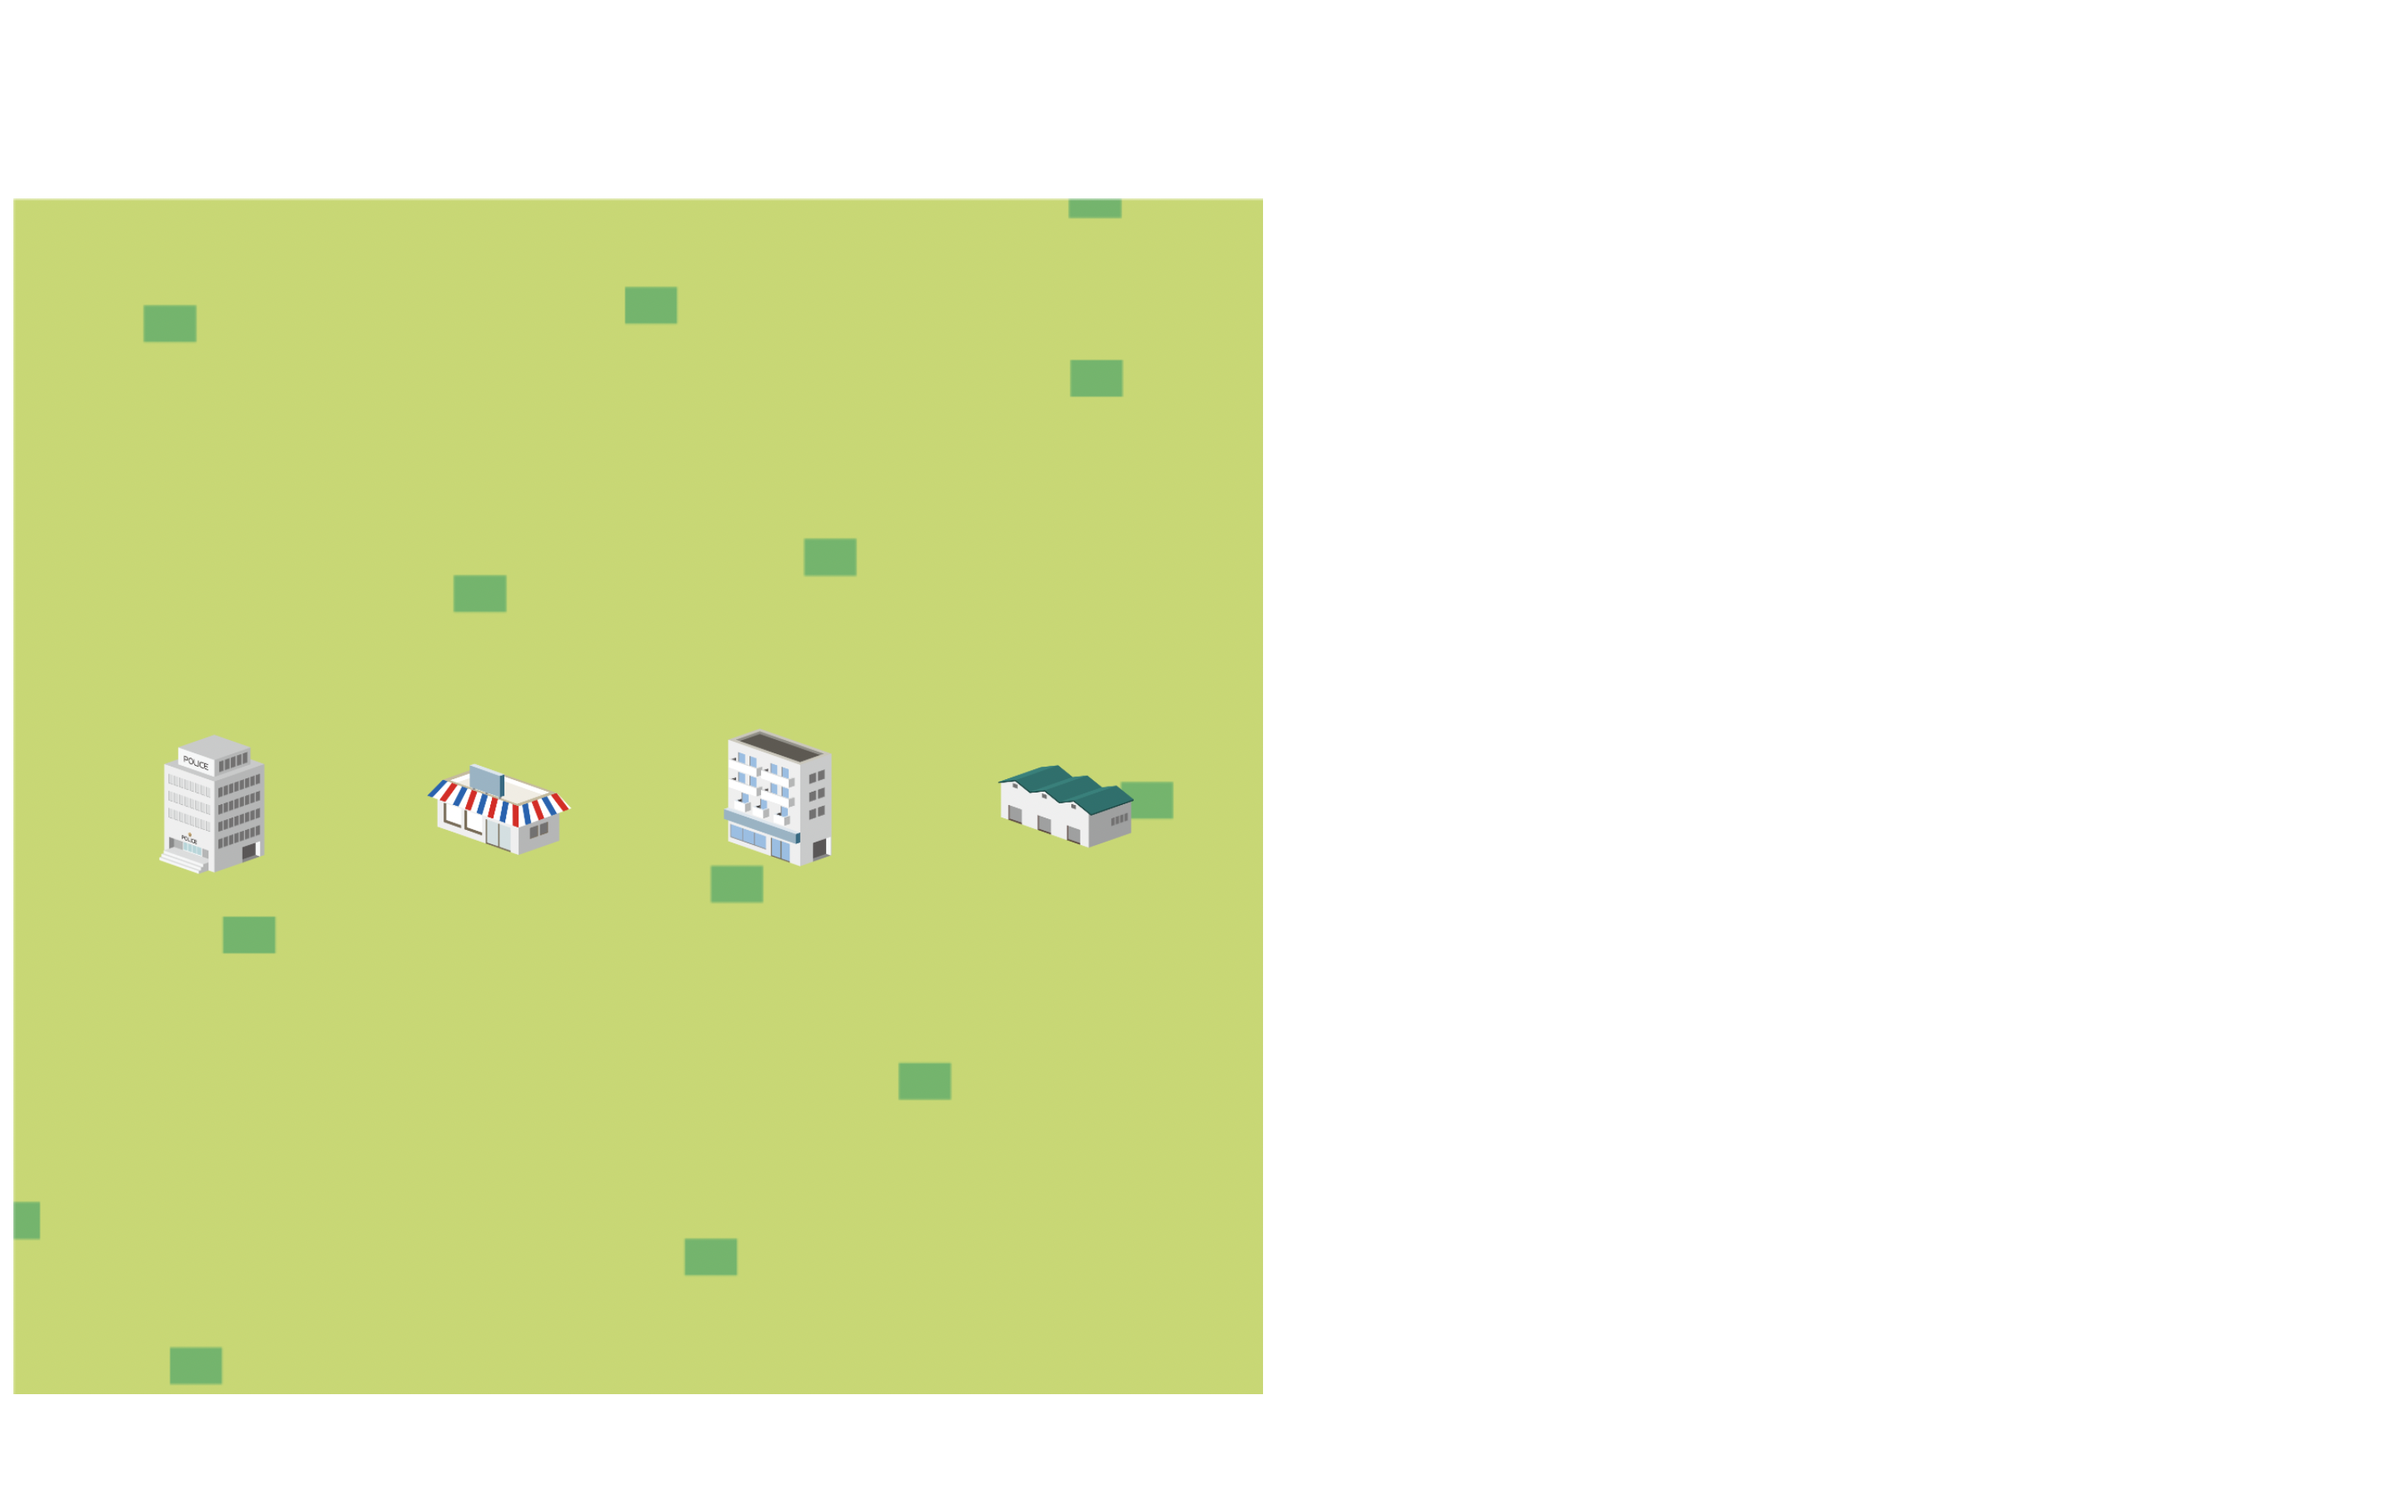
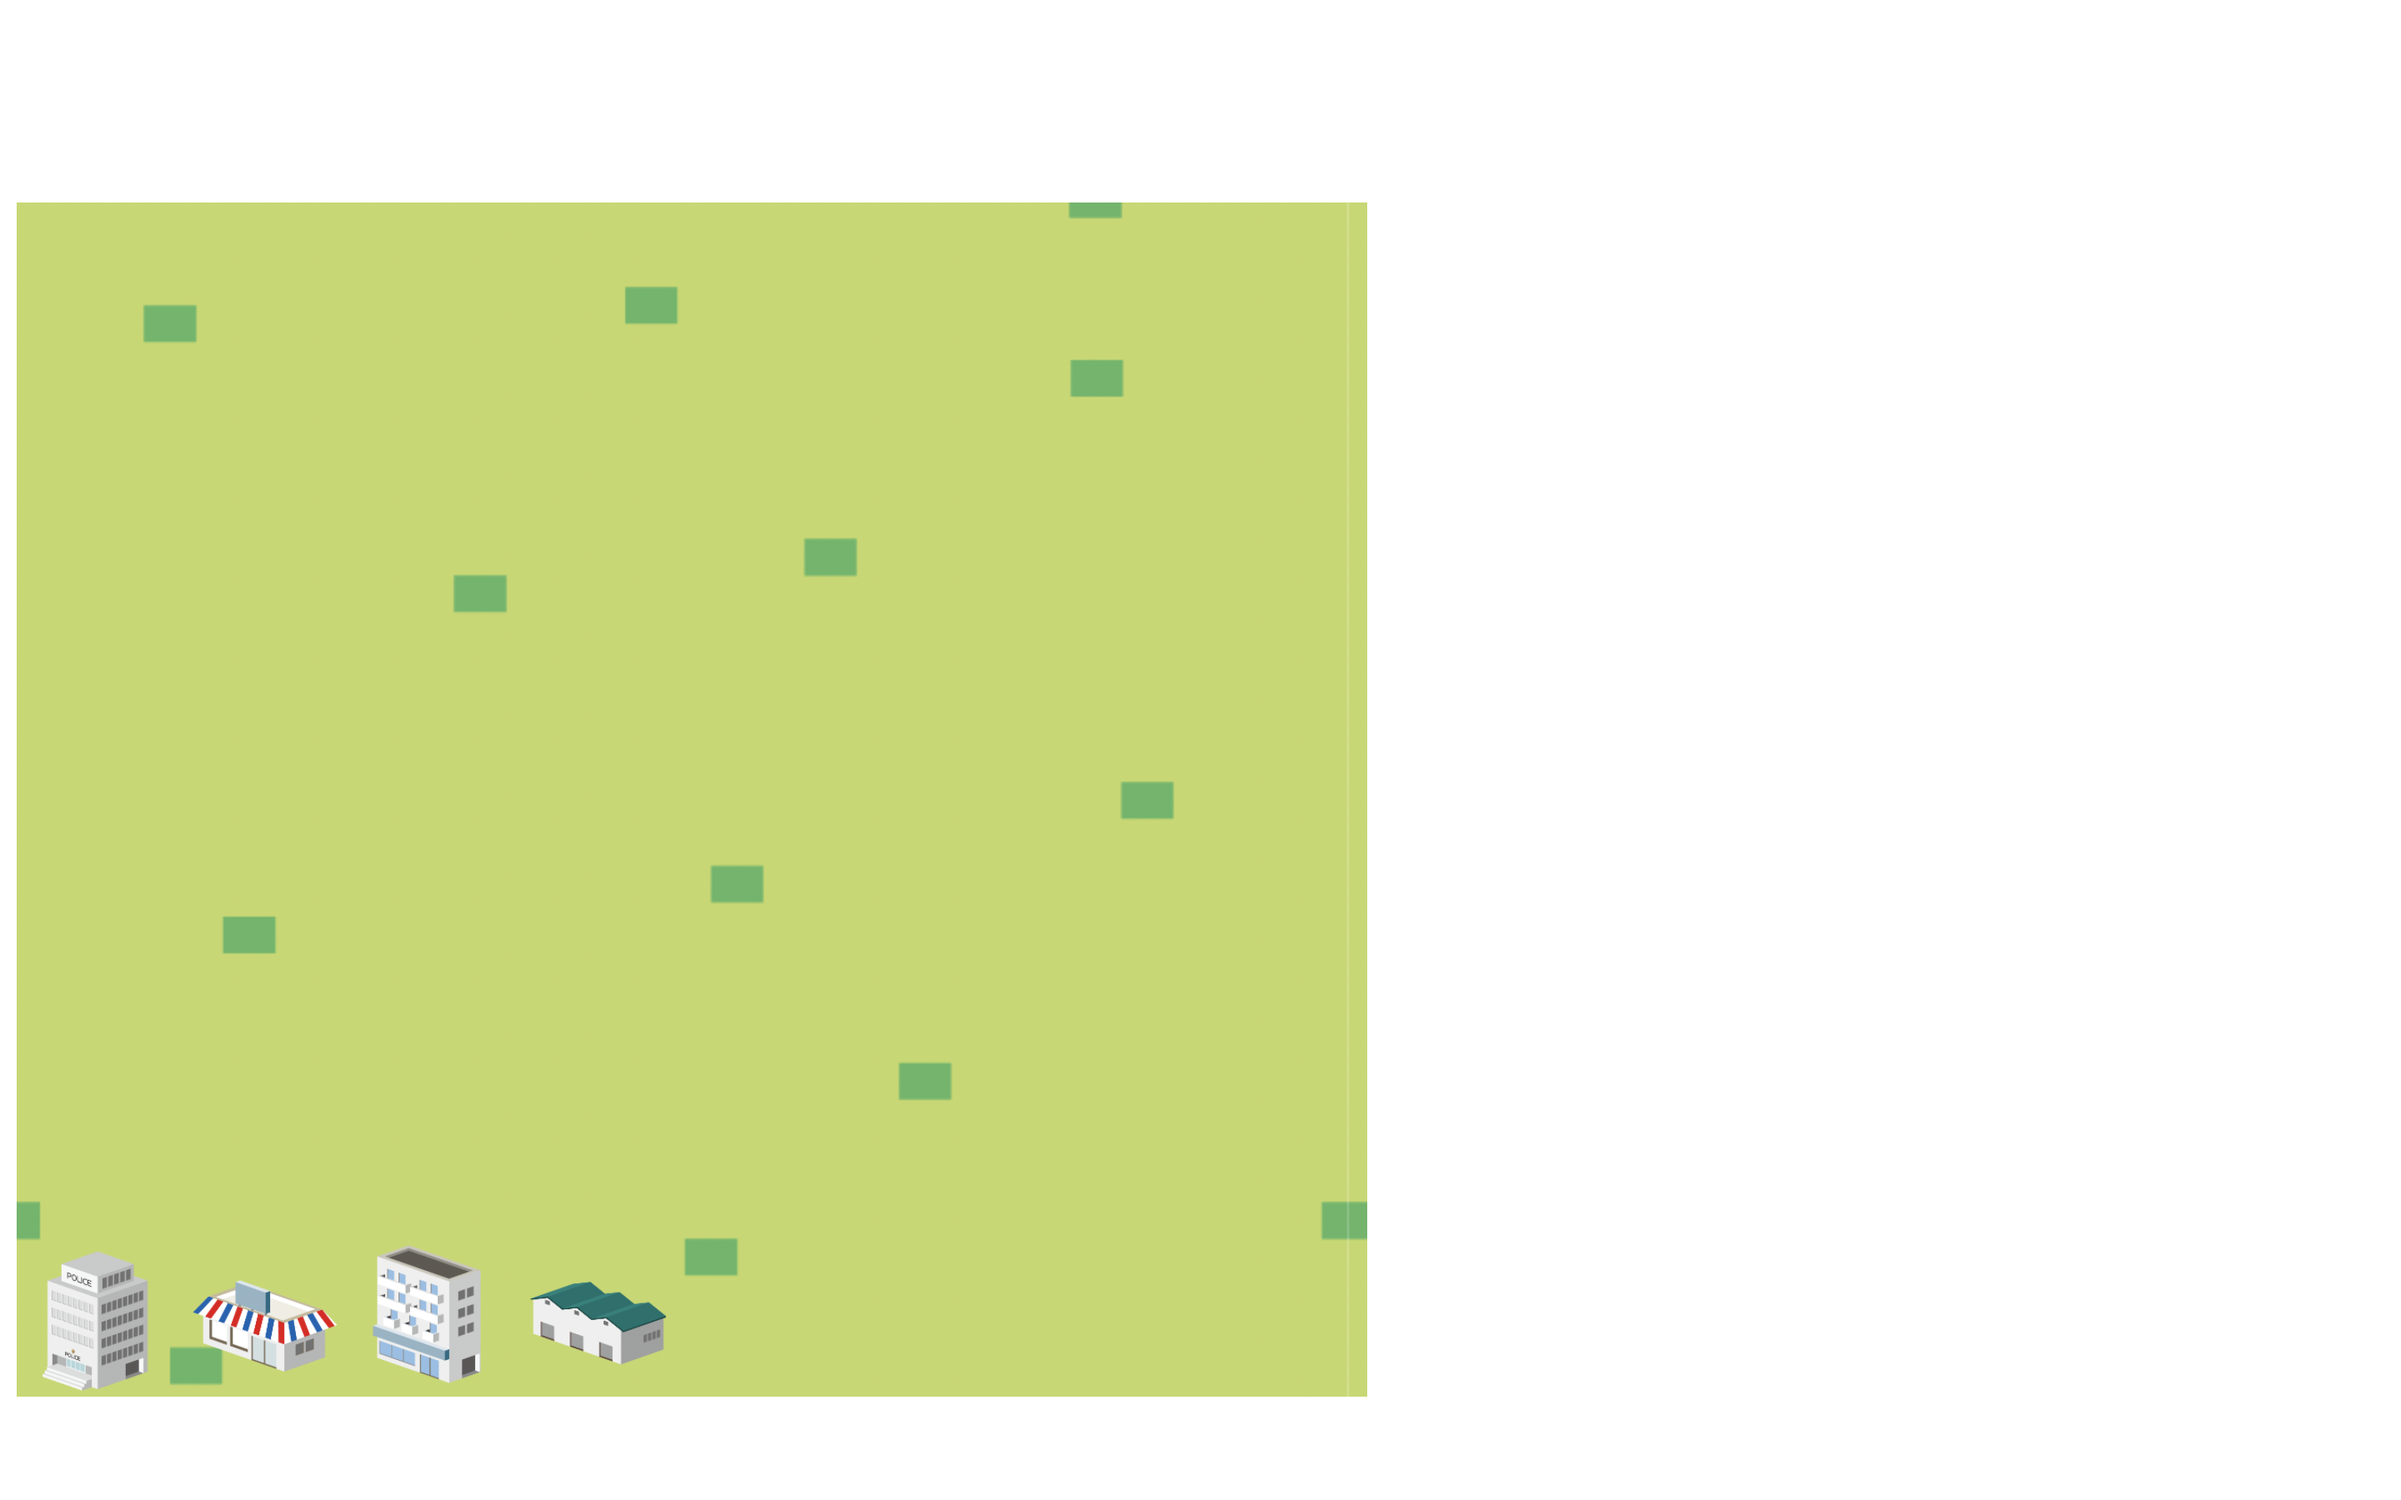
三問目作成済み

diff --git a/src/views/css_questions/second_question.vue b/src/views/css_questions/second_question.vue
@@ -22,8 +22,8 @@
       <h1>Lesson2</h1>
       <section>
         <p>
-          situation: この地区に新しく道路を通すため施設のレイアウトを<br />
-          予想図のように修正する必要があります。
+          situation: 左画面上の上部にある建物群を宅地開発のため<br />
+          予想図のように画面下部へ移動させる必要があります。
         </p>
 
         <p>

diff --git a/src/views/css_questions/third_question.vue b/src/views/css_questions/third_question.vue
@@ -48,7 +48,7 @@
 
     <div id="overlay" v-show="showContent">
       <div id="content">
-        <img src="/img/sample_lesson2.png" class="sample-img" />
+        <img src="/img/sample_lesson3.png" class="sample-img" />
         <p><button v-on:click="closeModal" class="d_button">閉じる</button></p>
       </div>
     </div>
